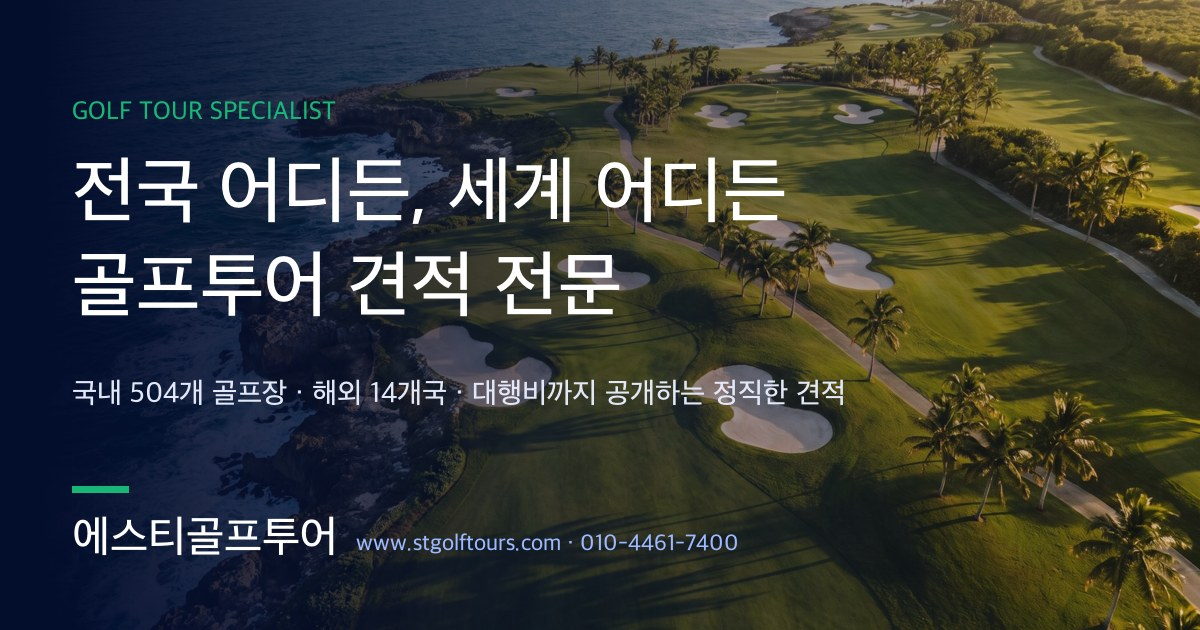
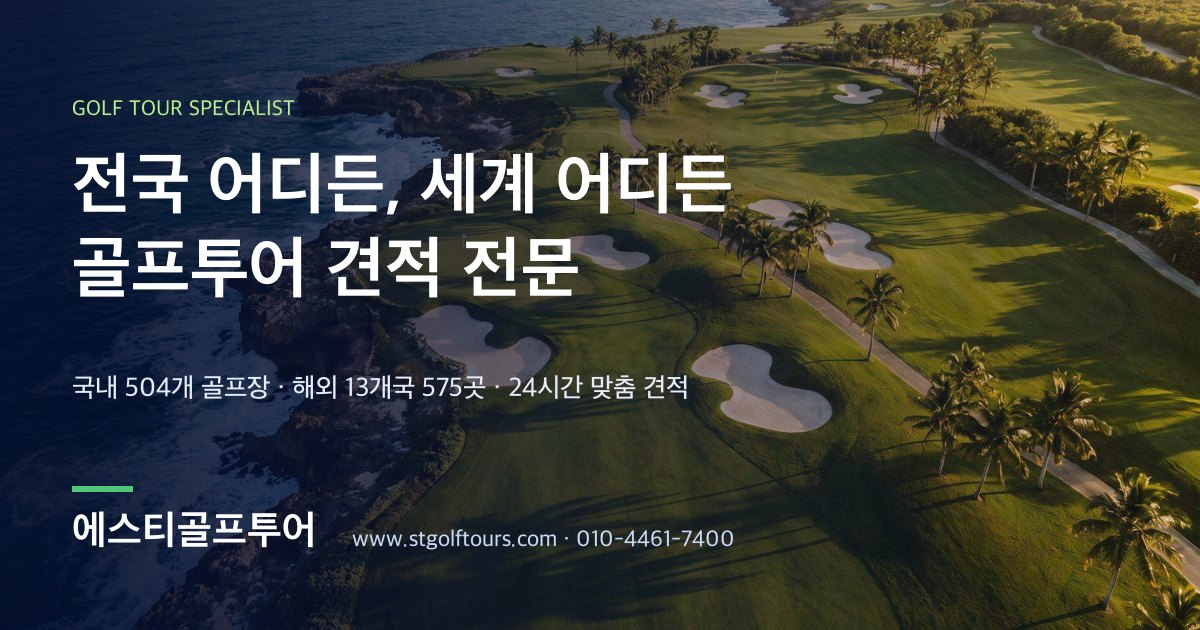
핵심 컨셉 전면 교체: 원가·대행비 공개 표현 제거, 모바일 플로팅 연락 버튼 도입
대표 지시로 '원가·대행비 공개' 컨셉을 폐기하고 '조건 맞춤 설계 + 포함·불포함 내역 명시'로 전환
- site.ts 두 번째 철칙·포지셔닝, prices/faq 안내문, 홈 진행단계·견적방식·가격안내 문구
- 국내/해외/국가/상품/회사소개 페이지 설명문, llms.txt (총 24건 교체, 잔여 0건)
- QuoteSample: 원가·대행비 분해 표를 포함/불포함 내역 + 총액 형식으로 재작성, 스탬프 '포함내역 명시'
- ChatDemo: 상담 예시 대화에서 금액 분해·대행비 언급 제거
- og.jpg 재생성 (기존 이미지에 '대행비까지 공개' 문구가 박혀 있었음)
- MobileBar(하단 3분할 바) 제거 -> FloatingContact(우측 하단 밴드·카톡·전화 원형 버튼, 데스크톱 숨김)
- site-check 체크리스트에 금지어 규칙 추가, 콘텐츠 수정일 갱신

diff --git a/src/components/QuoteSample.tsx b/src/components/QuoteSample.tsx
@@ -1,21 +1,21 @@
 import Image from "next/image";
 
 /**
- * 견적서 미리보기: "대행비 공개"를 눈으로 보여주는 핵심 신뢰 장치.
- * 구성 예시임을 명시 (실제 금액 아님).
+ * 견적서 미리보기: 포함·불포함 내역이 항목별로 명확히 적힌다는 점을 보여주는 예시.
+ * 구성 예시임을 명시 (실제 금액 아님). 원가·대행비 등 내부 구성은 표기하지 않는다.
  */
-const rows = [
-  ["왕복 항공 (인천 ↔ 방콕)", "380,000"],
-  ["숙박 3박 (4성 리조트 · 2인 1실)", "210,000"],
-  ["그린피 · 카트 · 캐디 (3라운드)", "330,000"],
-  ["차량 · 공항 픽업 (전 일정)", "80,000"],
+const included = [
+  "왕복 항공 (인천 ↔ 방콕) · 유류할증료 · TAX",
+  "4성 리조트 3박 (2인 1실 · 조식)",
+  "그린피 · 카트 · 캐디 (3라운드)",
+  "전 일정 차량 · 공항 픽업",
 ];
+const excluded = ["캐디팁 · 개인 경비", "여행자 보험", "선택 관광"];
 
 export default function QuoteSample() {
   return (
     <div className="relative max-w-md mx-auto lg:mx-0">
       <div className="rounded-2xl bg-white border border-line shadow-[0_24px_60px_rgba(6,20,62,0.16)] overflow-hidden">
-        {/* 문서 헤더 */}
         <div className="flex items-center justify-between px-6 py-4 border-b-2 border-navy">
           <Image src="/logo-black.png" alt="에스티골프투어" width={145} height={19} className="h-5 w-auto" />
           <span className="font-display text-navy text-[15px]">견 적 서</span>
@@ -25,45 +25,43 @@ export default function QuoteSample() {
           <p className="text-[12.5px] text-mute mb-3">
             태국 방콕 · 3박 5일 · 4인 기준 <span className="ml-2 rounded bg-paper px-1.5 py-0.5 font-bold">1인 금액</span>
           </p>
-          <table className="w-full text-[14px]" style={{ fontVariantNumeric: "tabular-nums" }}>
-            <tbody>
-              {rows.map(([k, v]) => (
-                <tr key={k} className="border-b border-line/70">
-                  <td className="py-2.5 pr-2">{k}</td>
-                  <td className="py-2.5 text-right font-semibold whitespace-nowrap">{v}원</td>
-                </tr>
-              ))}
-              <tr className="border-b border-line/70">
-                <td className="py-2.5 text-mute">원가 합계</td>
-                <td className="py-2.5 text-right font-semibold text-mute whitespace-nowrap">1,000,000원</td>
-              </tr>
-              <tr className="border-b-2 border-navy">
-                <td className="py-2.5">
-                  <span className="inline-flex items-center gap-1.5 font-bold text-golddeep">
-                    에스티골프투어 대행비
-                    <span className="rounded-full bg-gold/15 text-golddeep text-[10.5px] font-black px-2 py-0.5">공개</span>
-                  </span>
-                </td>
-                <td className="py-2.5 text-right font-bold text-golddeep whitespace-nowrap">100,000원</td>
-              </tr>
-              <tr>
-                <td className="pt-3 font-display text-navy text-[15px]">총 견적 금액</td>
-                <td className="pt-3 text-right font-display text-navy text-[19px] whitespace-nowrap">1,100,000원</td>
-              </tr>
-            </tbody>
-          </table>
+
+          <p className="text-[12px] font-bold text-golddeep mb-1.5">포함 내역</p>
+          <ul className="text-[14px] divide-y divide-line/70 border-y border-line/70">
+            {included.map((k) => (
+              <li key={k} className="py-2.5 flex gap-2">
+                <span className="text-gold font-black shrink-0" aria-hidden="true">✓</span>
+                <span>{k}</span>
+              </li>
+            ))}
+          </ul>
+
+          <p className="text-[12px] font-bold text-mute mt-4 mb-1.5">불포함 내역</p>
+          <ul className="text-[13.5px] text-mute divide-y divide-line/70 border-y border-line/70">
+            {excluded.map((k) => (
+              <li key={k} className="py-2 flex gap-2">
+                <span className="shrink-0" aria-hidden="true">·</span>
+                <span>{k}</span>
+              </li>
+            ))}
+          </ul>
+
+          <div className="flex items-baseline justify-between mt-5 pt-3 border-t-2 border-navy" style={{ fontVariantNumeric: "tabular-nums" }}>
+            <span className="font-display text-navy text-[15px]">총 견적 금액</span>
+            <span className="font-display text-navy text-[19px]">1,100,000원</span>
+          </div>
+          <p className="mt-2 text-[12px] text-mute">견적 유효기간 7일 · 조건 변경 시 재견적</p>
+
           <p className="mt-4 text-[11.5px] text-mute leading-relaxed">
             ※ 구성 예시입니다. 실제 견적서는 고객님의 날짜·지역·인원에 맞춰 작성되며, 시즌에 따라 금액이 달라집니다.
-            견적 유효기간과 포함·불포함 내역이 함께 표기됩니다.
           </p>
         </div>
       </div>
-      {/* 도장 느낌 스탬프 */}
       <div
         aria-hidden="true"
         className="absolute -right-3 -top-3 rotate-12 rounded-full border-2 border-gold text-golddeep bg-white/95 px-3 py-2 text-[11px] font-black shadow-soft"
       >
-        원가 공개
+        포함내역 명시
       </div>
     </div>
   );

diff --git a/src/app/page.tsx b/src/app/page.tsx
@@ -152,7 +152,7 @@ export default function Home() {
             {[
               ["01", "조건 입력 (30초)", "지역과 날짜, 인원만 고르면 됩니다."],
               ["02", "24시간 내 견적서", "요청을 확인한 뒤 하루 안에 견적서를 보내드립니다."],
-              ["03", "원가 확인", "항공·숙박·그린피 원가와 대행비를 나눠서 보여드립니다."],
+              ["03", "일정 조정", "포함 내역을 확인하고 숙소·라운드·이동을 원하는 대로 조정합니다."],
               ["04", "확정 · 예약", "일정이 정해지면 계약금 입금과 함께 티타임을 잡아드립니다."],
             ].map(([n, t, d], i) => (
               <Reveal key={n} delay={i * 90}>
@@ -167,14 +167,14 @@ export default function Home() {
         </div>
       </section>
 
-      {/* ---------- 원가 공개: 견적서 샘플 + 상담 예시 ---------- */}
+      {/* ---------- 견적 방식: 견적서 샘플 + 상담 예시 ---------- */}
       <section className="mx-auto max-w-6xl px-5 py-16 sm:py-20 overflow-hidden">
         <Reveal>
-          <p className="eyebrow text-royal mb-2">Transparent Quote</p>
+          <p className="eyebrow text-royal mb-2">How We Quote</p>
           <h2 className="headline text-2xl sm:text-3xl mb-3">견적서, 이렇게 보내드립니다</h2>
           <p className="text-mute mb-10 max-w-2xl">
-            총액만 적힌 견적서는 비교할 방법이 없습니다. 에스티골프투어는 항공·숙박·라운드 원가와 대행비를
-            나눠서 적습니다. 어디에 얼마가 쓰이는지 직접 확인하세요.
+            총액만 던지지 않습니다. 무엇이 포함되고 무엇이 빠지는지 항목별로 적고, 조건에 맞춰 숙소·라운드·이동을
+            조정해 드립니다. 받아보시면 바로 비교하고 결정하실 수 있습니다.
           </p>
         </Reveal>
         <div className="grid lg:grid-cols-2 gap-10 items-start">
@@ -189,7 +189,7 @@ export default function Home() {
           <p className="eyebrow text-royal mb-2">Price Guide</p>
           <h2 className="headline text-2xl sm:text-3xl mb-3">골프투어, 대략 얼마면 갈까요?</h2>
           <p className="text-mute mb-8 max-w-2xl">
-            숨기지 않고 미리 보여드립니다. 1인 기준 시장 통상 범위이며, 정확한 금액은 견적서에서 원가와 대행비로 나눠 확인하실 수 있습니다.
+            미리 감을 잡으실 수 있게 시장 통상 범위를 보여드립니다. 1인 기준이며, 정확한 금액은 조건에 맞춘 견적서로 알려드립니다.
           </p>
         </Reveal>
         <div className="grid lg:grid-cols-2 gap-6">

diff --git a/src/data/site.ts b/src/data/site.ts
@@ -30,9 +30,9 @@ export const site = {
   promises: {
     sla: "24시간 안에, 견적서가 도착합니다.",
     slaSub: "요청을 확인하는 대로 준비해서, 하루 안에 보내드립니다.",
-    transparent: "대행비까지 공개하는 정직한 견적",
+    transparent: "조건에 맞춰 직접 설계하는 견적",
     transparentSub:
-      "견적서에 골프장·숙박·항공 원가와 에스티골프투어 대행비를 분리해 보여드립니다. 거품이 낄 자리가 없습니다.",
+      "전국 504곳·해외 575곳 골프장 정보와 25,000팀을 보내드린 경험으로 지역·날짜·인원·예산에 맞는 일정을 짜드립니다. 포함·불포함 내역을 항목별로 명확히 적어 드립니다.",
   },
 
   stats: {
@@ -44,12 +44,12 @@ export const site = {
     tournaments: "10+", // 주최·주관 대회 수 (사용자 제공)
   },
 
-  contentUpdated: "2026년 9월 2일", // 콘텐츠 최종 수정일: 내용 갱신 시 함께 갱신
-  contentUpdatedISO: "2026-09-02", // 위와 항상 같은 날짜 (JSON-LD·sitemap용)
+  contentUpdated: "2026년 9월 3일", // 콘텐츠 최종 수정일: 내용 갱신 시 함께 갱신
+  contentUpdatedISO: "2026-09-03", // 위와 항상 같은 날짜 (JSON-LD·sitemap용)
   publishedISO: "2026-08-18", // 사이트 최초 공개일
 
   positioning:
-    "에스티골프투어(ST TOUR)는 세종시의 종합여행업 등록 골프투어 전문 여행사입니다. 고객이 원하는 지역과 날짜를 보내면 전국 500여 개 골프장과 해외 14개국의 골프장·숙박·항공을 조합해 24시간 안에 대행비까지 공개된 맞춤 견적서를 보내드립니다.",
+    "에스티골프투어(ST TOUR)는 세종시의 종합여행업 등록 골프투어 전문 여행사입니다. 고객이 원하는 지역과 날짜를 보내면 전국 500여 개 골프장과 해외 14개국의 골프장·숙박·항공을 조합해 24시간 안에 조건에 맞춘 견적서를 보내드립니다.",
 };
 
 export const promo = {

diff --git a/src/components/FloatingContact.tsx b/src/components/FloatingContact.tsx
@@ -1,0 +1,41 @@
+import { site } from "@/data/site";
+
+/**
+ * 모바일 우측 하단 고정 연락 버튼: 전화 · 카카오톡 · 밴드.
+ * 데스크톱(lg 이상)은 헤더에 전화 버튼이 있어 숨긴다.
+ */
+export default function FloatingContact() {
+  return (
+    <div className="fixed right-4 bottom-4 z-50 flex flex-col gap-2.5 lg:hidden" aria-label="빠른 연락">
+      <a
+        href={site.bandUrl}
+        target="_blank"
+        rel="noopener noreferrer"
+        aria-label="네이버 밴드로 이동"
+        className="flex h-[52px] w-[52px] items-center justify-center rounded-full bg-[#21c531] text-white shadow-[0_8px_22px_rgba(0,0,0,0.22)] active:scale-95"
+      >
+        <span className="font-display text-[15px] font-black leading-none">BAND</span>
+      </a>
+      <a
+        href={site.kakaoUrl}
+        target="_blank"
+        rel="noopener noreferrer"
+        aria-label="카카오톡 상담"
+        className="flex h-[52px] w-[52px] items-center justify-center rounded-full bg-[#FEE500] text-[#191919] shadow-[0_8px_22px_rgba(0,0,0,0.22)] active:scale-95"
+      >
+        <svg width="26" height="26" viewBox="0 0 24 24" fill="currentColor" aria-hidden="true">
+          <path d="M12 3C6.48 3 2 6.58 2 11c0 2.84 1.87 5.33 4.68 6.75l-.98 3.63c-.09.32.27.58.55.4l4.3-2.86c.47.05.95.08 1.45.08 5.52 0 10-3.58 10-8S17.52 3 12 3z" />
+        </svg>
+      </a>
+      <a
+        href={site.phoneHref}
+        aria-label={`전화 상담 ${site.phone}`}
+        className="flex h-[52px] w-[52px] items-center justify-center rounded-full bg-royal text-white shadow-[0_8px_22px_rgba(13,79,245,0.35)] active:scale-95"
+      >
+        <svg width="24" height="24" viewBox="0 0 24 24" fill="currentColor" aria-hidden="true">
+          <path d="M6.6 10.8c1.4 2.8 3.8 5.1 6.6 6.6l2.2-2.2c.3-.3.7-.4 1-.2 1.1.4 2.3.6 3.6.6.6 0 1 .4 1 1V20c0 .6-.4 1-1 1C10.6 21 3 13.4 3 4c0-.6.4-1 1-1h3.5c.6 0 1 .4 1 1 0 1.2.2 2.4.6 3.6.1.3 0 .7-.2 1l-2.3 2.2z" />
+        </svg>
+      </a>
+    </div>
+  );
+}

diff --git a/src/components/ChatDemo.tsx b/src/components/ChatDemo.tsx
@@ -7,8 +7,8 @@ const messages: { from: "customer" | "st"; text: string; note?: string }[] = [
   { from: "st", text: "안녕하세요, 에스티골프투어입니다. 12월 초 방콕이면 성수기 초입이라 지금 알아보시는 게 딱 좋아요. 라운드는 몇 번 생각하세요?" },
   { from: "customer", text: "3번이요. 숙소는 골프장 가까운 데면 됩니다." },
   { from: "st", text: "확인했습니다. 내일 이 시간 전까지 견적서 보내드릴게요.", note: "24시간 카운트 시작" },
-  { from: "st", text: "견적서 보내드렸습니다! 항공 38만 · 숙박 21만 · 3라운드 33만 · 차량 8만, 저희 대행비 10만원까지 전부 적어서 1인 110만원입니다. 조정하고 싶은 부분 말씀 주세요.", note: "다음 날 오전" },
-  { from: "customer", text: "대행비까지 다 적혀 있네요. 이렇게 보여주시니 비교가 되네요 👍" },
+  { from: "st", text: "견적서 보내드렸습니다! 왕복 항공·4성 리조트 3박·3라운드·전 일정 차량 포함 1인 110만원입니다. 포함·불포함 내역 적어뒀으니 조정하고 싶은 부분 말씀 주세요.", note: "다음 날 오전" },
+  { from: "customer", text: "포함 내역이 한눈에 들어오네요. 숙소만 5성으로 올리면 얼마나 차이 날까요?" },
 ];
 
 export default function ChatDemo() {

diff --git a/src/app/overseas/[slug]/page.tsx b/src/app/overseas/[slug]/page.tsx
@@ -28,7 +28,7 @@ function buildFaqs(d: (typeof tier1)[number]) {
   return [
     {
       q: `${d.name} 골프투어 비용은 얼마인가요?`,
-      a: `${d.priceRange ? `1인 기준 ${d.priceRange} 수준이 시장 통상 범위입니다(왕복 항공 포함).` : "구성에 따라 달라 견적으로 안내드립니다."} 시즌·항공·숙박 등급에 따라 달라지며, 에스티골프투어 견적서에는 골프장·숙박·항공 원가와 대행비가 분리 표기되어 어디에 얼마가 쓰이는지 직접 확인하실 수 있습니다.`,
+      a: `${d.priceRange ? `1인 기준 ${d.priceRange} 수준이 시장 통상 범위입니다(왕복 항공 포함).` : "구성에 따라 달라 견적으로 안내드립니다."} 시즌·항공·숙박 등급에 따라 달라지며, 에스티골프투어 견적서에는 항공·숙박·라운드 포함 내역과 불포함 내역이 항목별로 적혀 있어 무엇이 들어가는지 바로 확인하실 수 있습니다.`,
     },
     {
       q: `${d.name} 골프여행은 언제 가는 게 좋은가요?`,

diff --git a/src/data/faq.ts b/src/data/faq.ts
@@ -12,8 +12,8 @@ export const faqs: Faq[] = [
     a: "아니요, 견적은 무료입니다. 견적서를 받아보신 뒤 진행하지 않으셔도 비용이 발생하지 않습니다.",
   },
   {
-    q: "견적서에 대행비가 공개된다는 게 무슨 뜻인가요?",
-    a: "견적서에 골프장·숙박·항공 원가와 에스티골프투어 대행비를 분리해 표기한다는 뜻입니다. 총액만 적힌 견적서와 달리 무엇에 얼마가 쓰이는지 그대로 보여드리기 때문에, 거품이 있는지 직접 확인하실 수 있습니다.",
+    q: "견적서에는 어떤 내용이 담기나요?",
+    a: "총 금액과 함께 항공·숙박·라운드·이동 등 포함 내역과 불포함 내역, 견적 유효기간이 항목별로 적혀 있습니다. 조정하고 싶은 항목(숙소 등급, 라운드 수, 일정)이 있으면 말씀만 주시면 다시 짜드립니다."
   },
   {
     q: "원하는 골프장을 직접 선택할 수 있나요?",

diff --git a/src/app/products/[slug]/page.tsx b/src/app/products/[slug]/page.tsx
@@ -211,7 +211,7 @@ export default async function ProductPage({ params }: { params: Promise<{ slug: 
         <div className="rounded-2xl bg-navy text-white p-7 sm:p-9">
           <h2 className="headline text-[22px] sm:text-[26px] mb-2">이 상품으로 견적을 받아보세요</h2>
           <p className="text-white/75 text-[15.5px] mb-6 max-w-2xl leading-relaxed">
-            인원과 날짜를 보내주시면 24시간 안에 항공·숙박·그린피 원가와 대행비가 분리된 견적서를 보내드립니다.
+            인원과 날짜를 보내주시면 24시간 안에 항공·숙박·그린피 포함 내역이 명확한 견적서를 보내드립니다.
             일정 조정이나 인원 변경도 상담해 드립니다.
           </p>
           <div className="flex flex-col sm:flex-row gap-3 max-w-xl">

diff --git a/src/app/about/page.tsx b/src/app/about/page.tsx
@@ -51,7 +51,7 @@ export default function AboutPage() {
         <ol className="space-y-3 mb-4 max-w-2xl">
           {[
             "홈페이지·전화·카카오톡으로 여행 조건을 보내주세요. 견적은 무료입니다.",
-            "하루 안에 견적서가 도착합니다. 항공·숙박·그린피 원가와 대행비가 나뉘어 적혀 있습니다.",
+            "하루 안에 견적서가 도착합니다. 총액과 포함·불포함 내역이 항목별로 명확히 적혀 있습니다.",
             "조건을 조정하며 일정을 확정합니다. 견적서는 발행 후 7일간 유효합니다.",
             "계약금 입금과 함께 티타임과 좌석을 확보하고, 출발 전 최종 일정표를 드립니다.",
           ].map((s, i) => (

diff --git a/src/data/prices.ts b/src/data/prices.ts
@@ -30,4 +30,4 @@ export const domesticPrices: PriceRow[] = [
 ];
 
 export const priceDisclaimer =
-  "위 금액은 1인 기준 시장 통상 범위이며 시즌·요일·항공·숙박 등급·인원에 따라 달라집니다. 명절·연휴에는 할증이 있고, 2인 출발은 추가 요금이 붙을 수 있습니다. 정확한 금액은 조건을 보내주시면 24시간 안에 대행비까지 공개된 견적서로 알려드립니다.";
+  "위 금액은 1인 기준 시장 통상 범위이며 시즌·요일·항공·숙박 등급·인원에 따라 달라집니다. 명절·연휴에는 할증이 있고, 2인 출발은 추가 요금이 붙을 수 있습니다. 정확한 금액은 조건을 보내주시면 24시간 안에 조건에 맞춘 견적서로 알려드립니다.";

diff --git a/src/app/domestic/page.tsx b/src/app/domestic/page.tsx
@@ -8,7 +8,7 @@ import { breadcrumbLd, webPageLd } from "@/data/jsonld";
 export const metadata: Metadata = {
   title: "국내 골프투어 견적 | 전국 골프장 맞춤 패키지",
   description:
-    "전국 500여 개 골프장에서 지역과 골프장을 고르면 24시간 안에 맞춤 견적서를 보내드립니다. 티타임·숙박·이동까지 한 번에, 대행비까지 공개된 정직한 국내 골프투어 견적.",
+    "전국 500여 개 골프장에서 지역과 골프장을 고르면 24시간 안에 맞춤 견적서를 보내드립니다. 티타임·숙박·이동까지 한 번에, 포함 내역이 명확한 조건 맞춤 국내 골프투어 견적.",
   alternates: { canonical: "/domestic/" },
 };
 

diff --git a/src/app/overseas/page.tsx b/src/app/overseas/page.tsx
@@ -10,7 +10,7 @@ import { site } from "@/data/site";
 export const metadata: Metadata = {
   title: "해외 골프투어 견적 | 일본·태국·베트남 등 14개국",
   description:
-    "일본, 태국, 베트남, 필리핀, 중국 등 14개국 해외 골프투어를 항공·숙박·라운드·차량까지 묶어 24시간 안에 맞춤 견적으로 보내드립니다. 대행비까지 공개된 정직한 견적.",
+    "일본, 태국, 베트남, 필리핀, 중국 등 14개국 해외 골프투어를 항공·숙박·라운드·차량까지 묶어 24시간 안에 맞춤 견적으로 보내드립니다. 포함 내역이 명확한 조건 맞춤 견적.",
   alternates: { canonical: "/overseas/" },
 };
 
